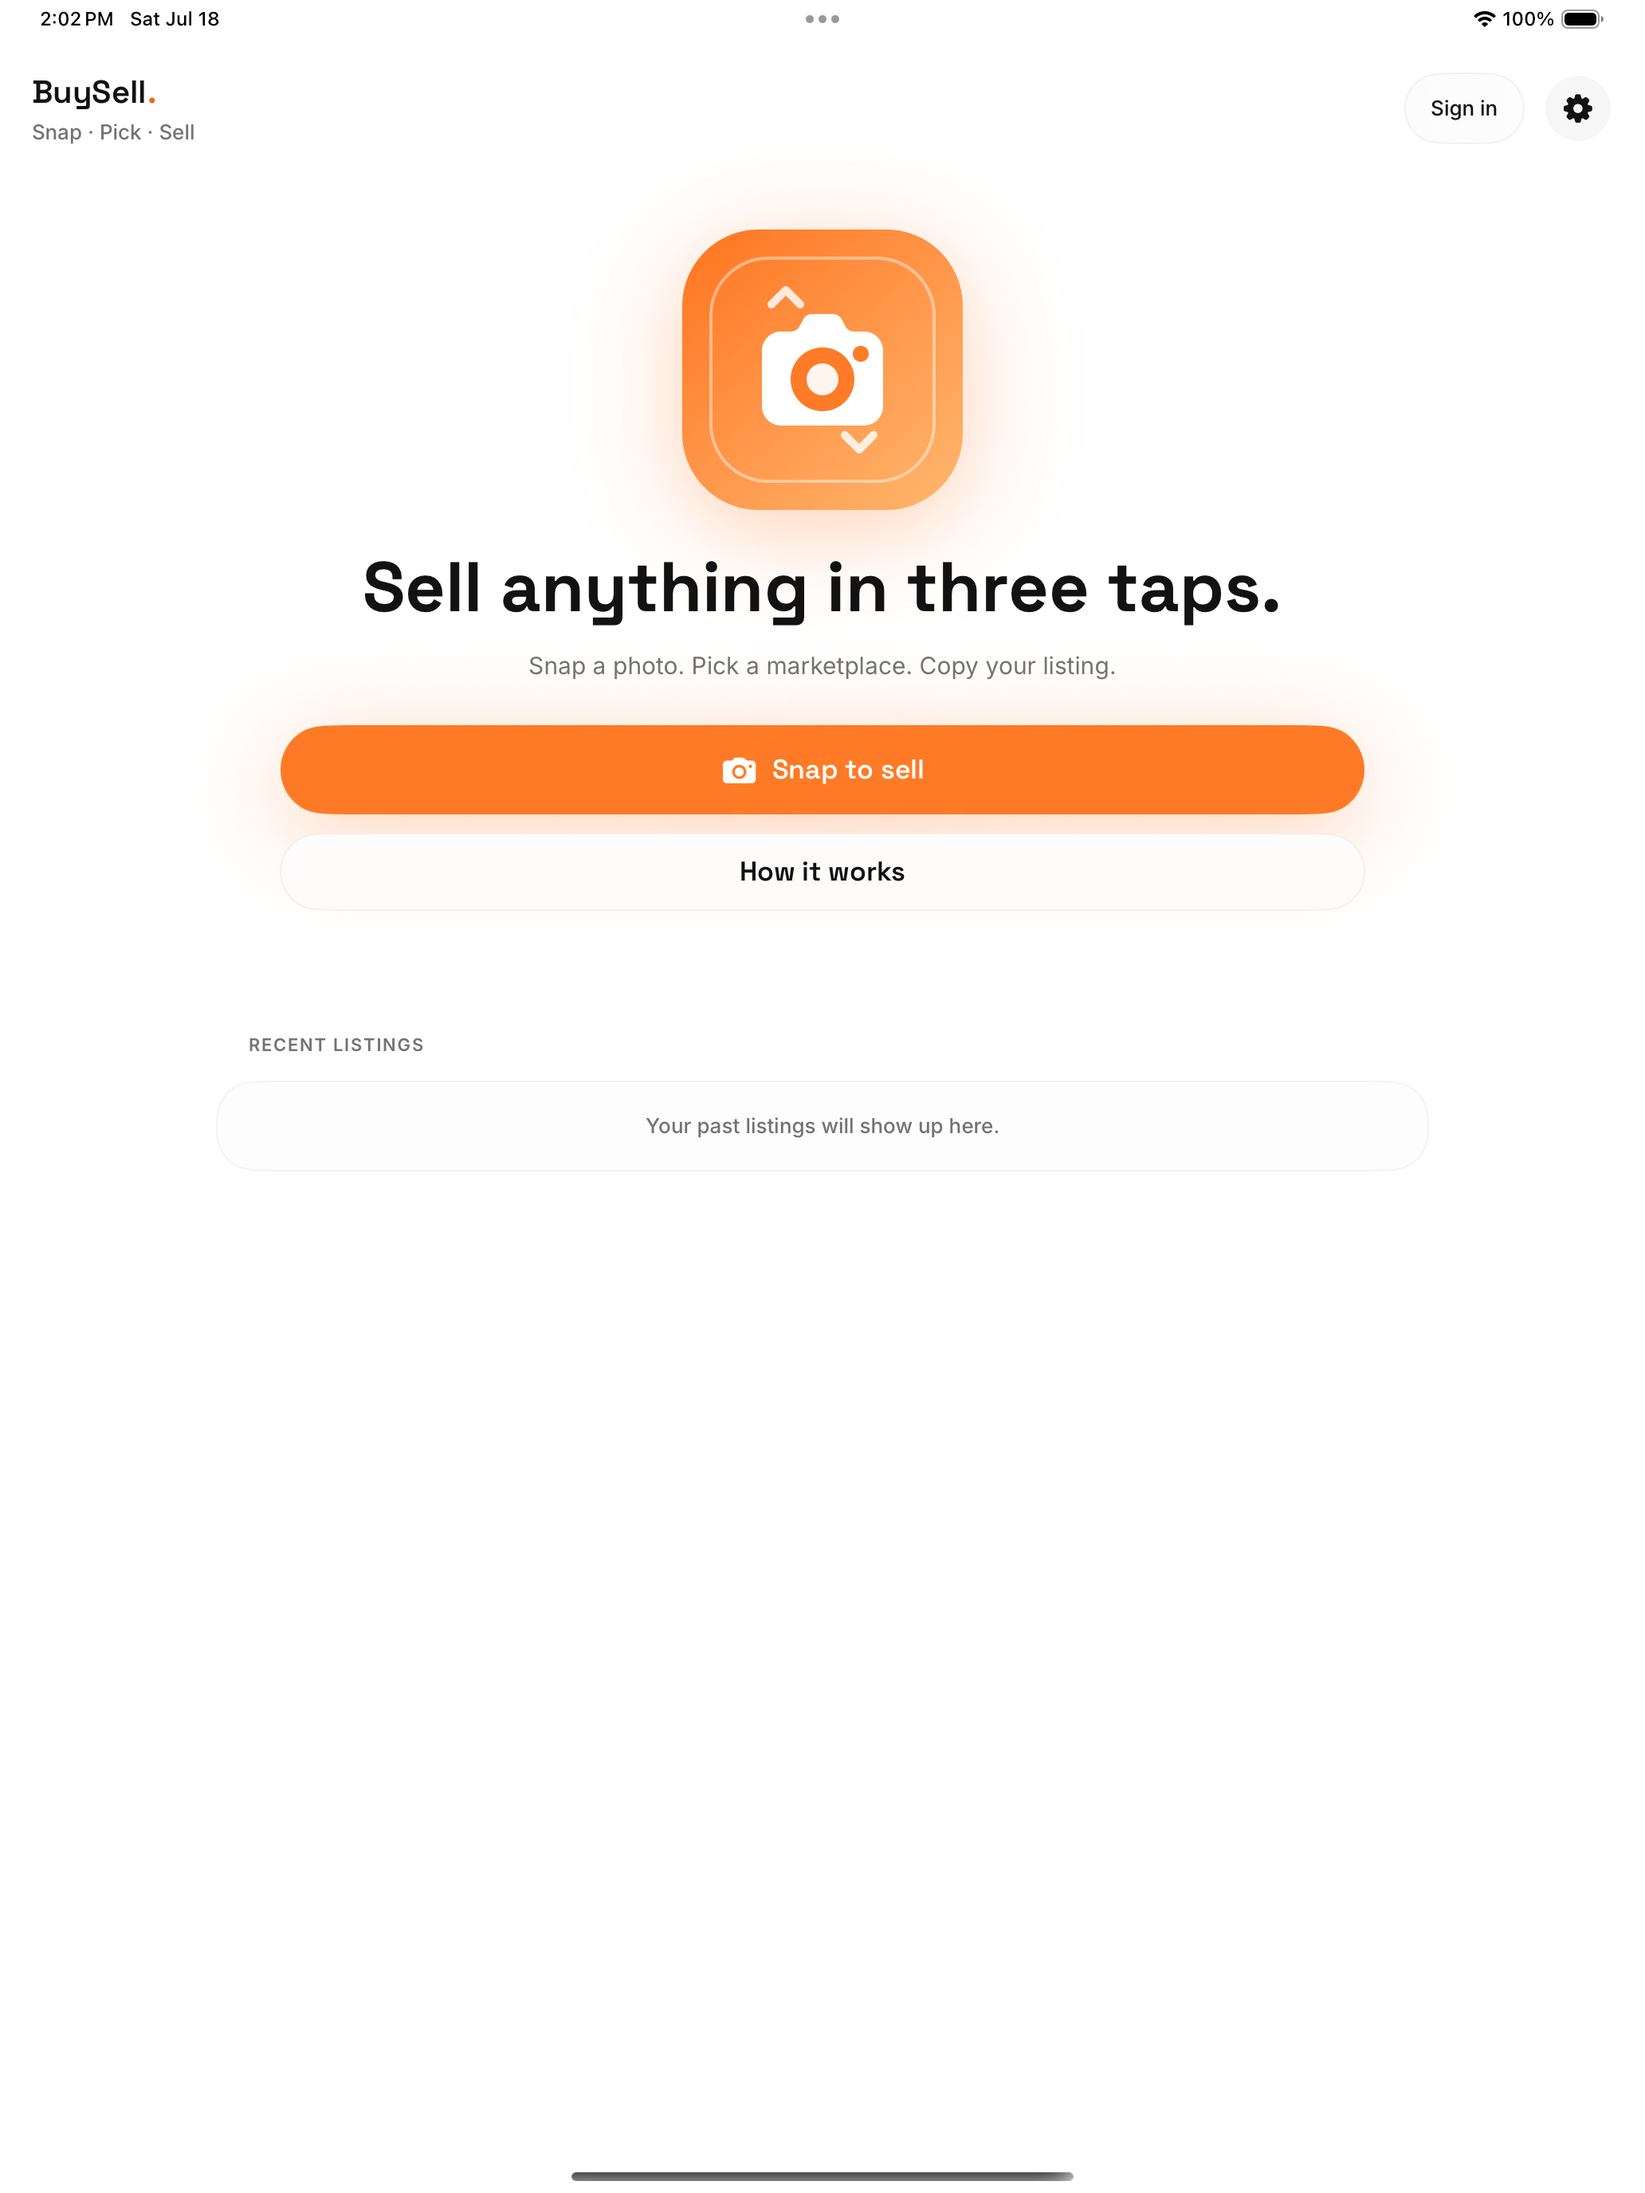
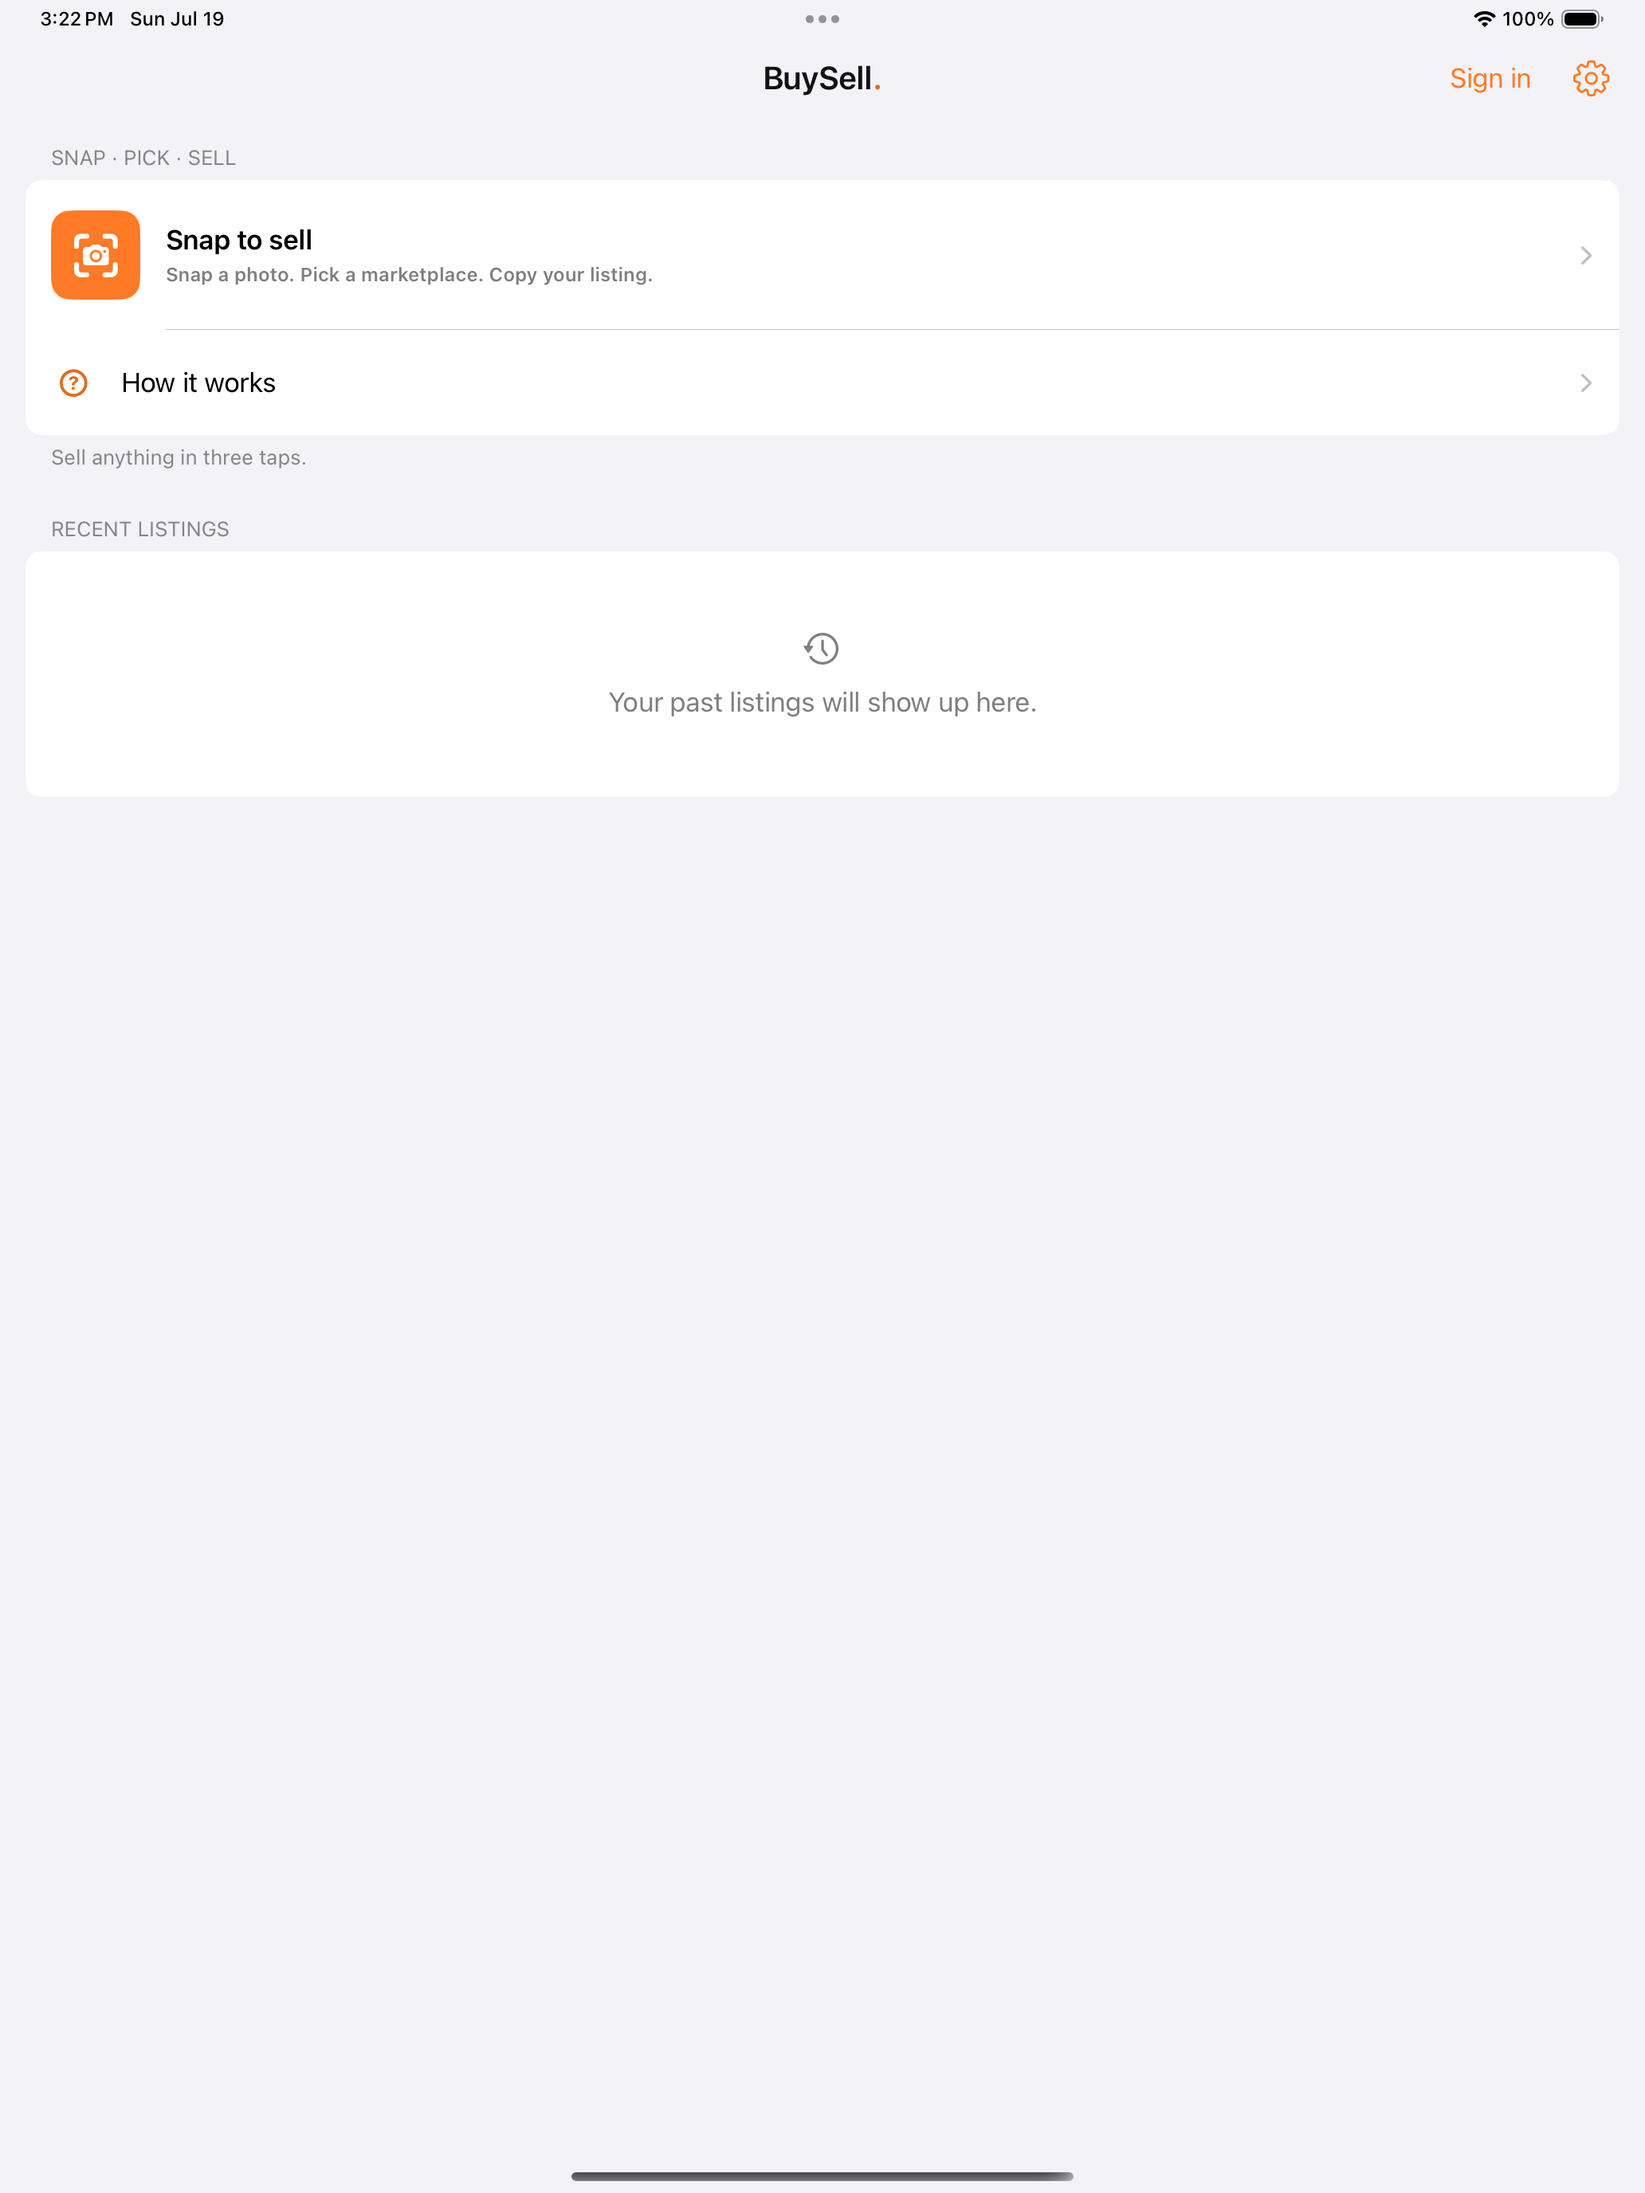
Refresh App Store screenshots for native Home row

diff --git a/BuySellAITests/DesignAccessibilityTests.swift b/BuySellAITests/DesignAccessibilityTests.swift
@@ -676,6 +676,14 @@ final class DesignAccessibilityTests: XCTestCase {
         XCTAssertNotNil(home.range(of: "SnapActionRow()"))
         XCTAssertNotNil(home.range(of: #"Image(systemName: "camera.viewfinder")"#))
         XCTAssertNotNil(home.range(of: #"Text("Snap a photo. Pick a marketplace. Copy your listing.".localized)"#))
+        let snapActionRange = try XCTUnwrap(home.range(of: "private struct SnapActionRow: View"))
+        let secondaryActionRange = try XCTUnwrap(home.range(of: "private struct HomeSecondaryActionRow: View", range: snapActionRange.upperBound..<home.endIndex))
+        let snapActionSource = String(home[snapActionRange.lowerBound..<secondaryActionRange.lowerBound])
+        XCTAssertNotNil(snapActionSource.range(of: "Spacer(minLength: Spacing.sm)"))
+        XCTAssertNotNil(snapActionSource.range(of: ".contentShape(Rectangle())"))
+        XCTAssertNotNil(snapActionSource.range(of: ".foregroundStyle(Color.brand.primaryForeground)"))
+        XCTAssertNotNil(snapActionSource.range(of: ".frame(width: 56, height: 56)"))
+        XCTAssertNotNil(snapActionSource.range(of: ".background(Color.brand.primary, in: RoundedRectangle(cornerRadius: Radius.md, style: .continuous))"))
         XCTAssertNil(home.range(of: ".brandFont(.display)"))
         XCTAssertNil(home.range(of: #"Image("SigmaHero")"#))
     }

diff --git a/BuySellAI/Features/Home/HomeView.swift b/BuySellAI/Features/Home/HomeView.swift
@@ -190,10 +190,10 @@ private struct SnapActionRow: View {
     var body: some View {
         HStack(spacing: Spacing.md) {
             Image(systemName: "camera.viewfinder")
-                .font(.title2.weight(.semibold))
-                .foregroundStyle(Color.brand.primaryText)
-                .frame(width: 44, height: 44)
-                .background(Color.brand.primaryMuted, in: RoundedRectangle(cornerRadius: Radius.md, style: .continuous))
+                .font(.title.weight(.semibold))
+                .foregroundStyle(Color.brand.primaryForeground)
+                .frame(width: 56, height: 56)
+                .background(Color.brand.primary, in: RoundedRectangle(cornerRadius: Radius.md, style: .continuous))
                 .accessibilityHidden(true)
 
             VStack(alignment: .leading, spacing: Spacing.xxs) {
@@ -207,6 +207,8 @@ private struct SnapActionRow: View {
                     .lineLimit(dynamicTypeSize.isAccessibilitySize ? 3 : 2)
             }
             .layoutPriority(1)
+
+            Spacer(minLength: Spacing.sm)
 
             Image(systemName: "chevron.right")
                 .brandSymbol(.chevron)
